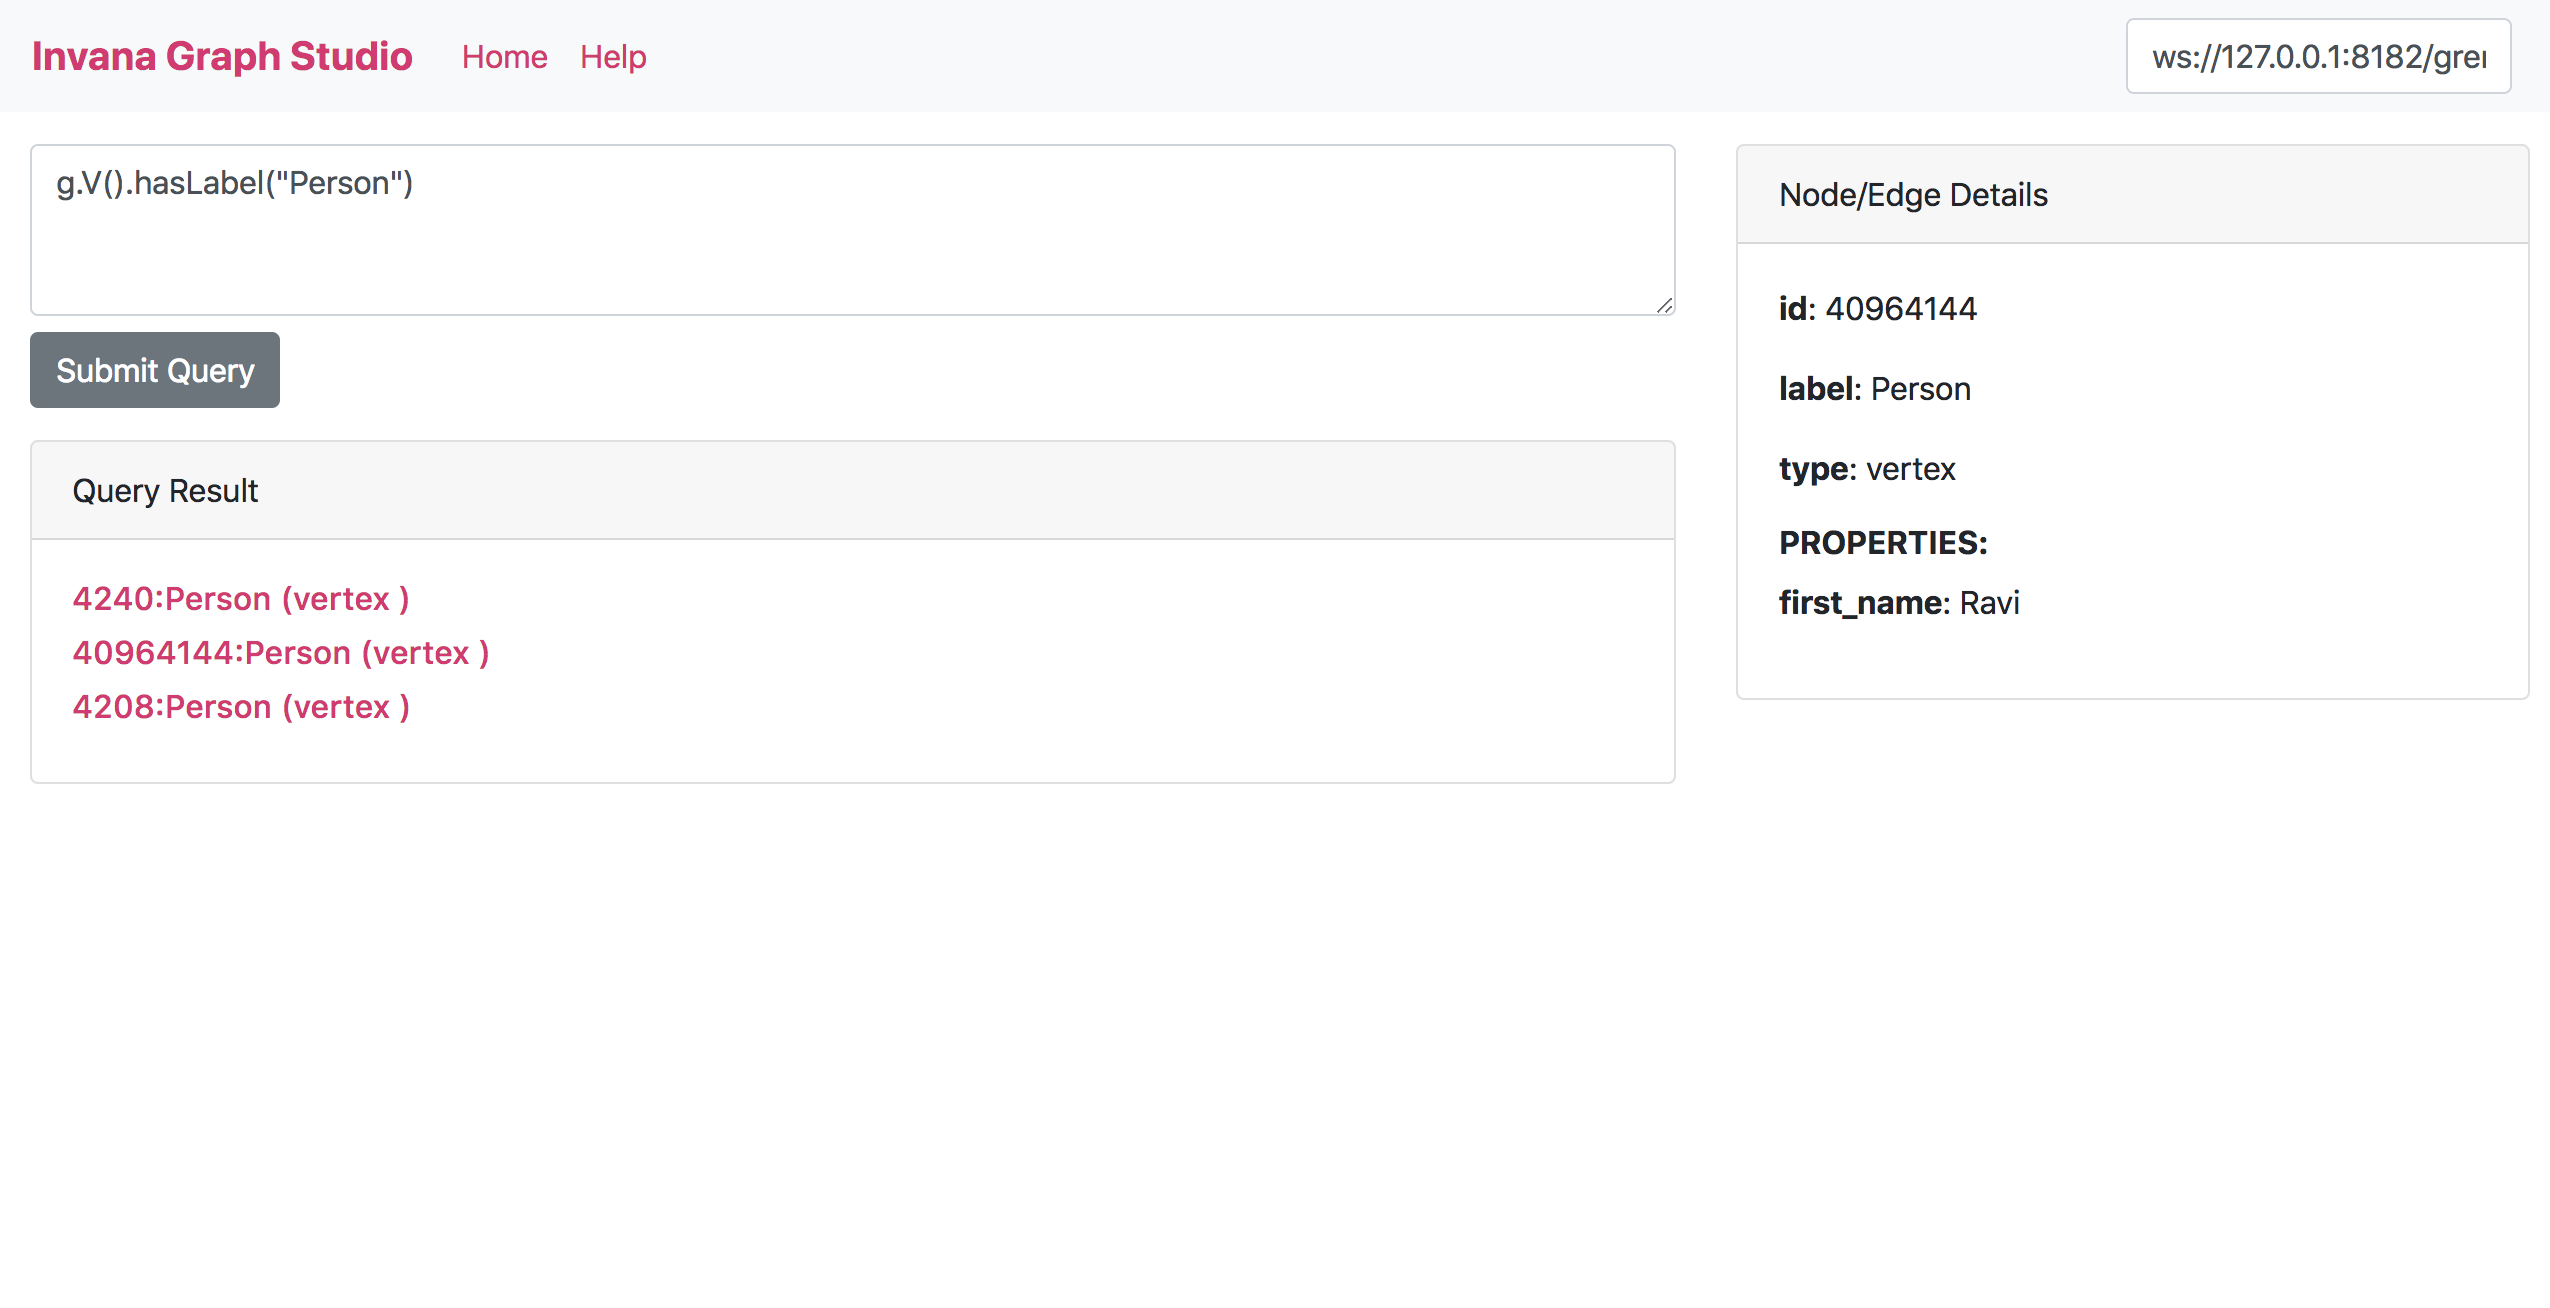
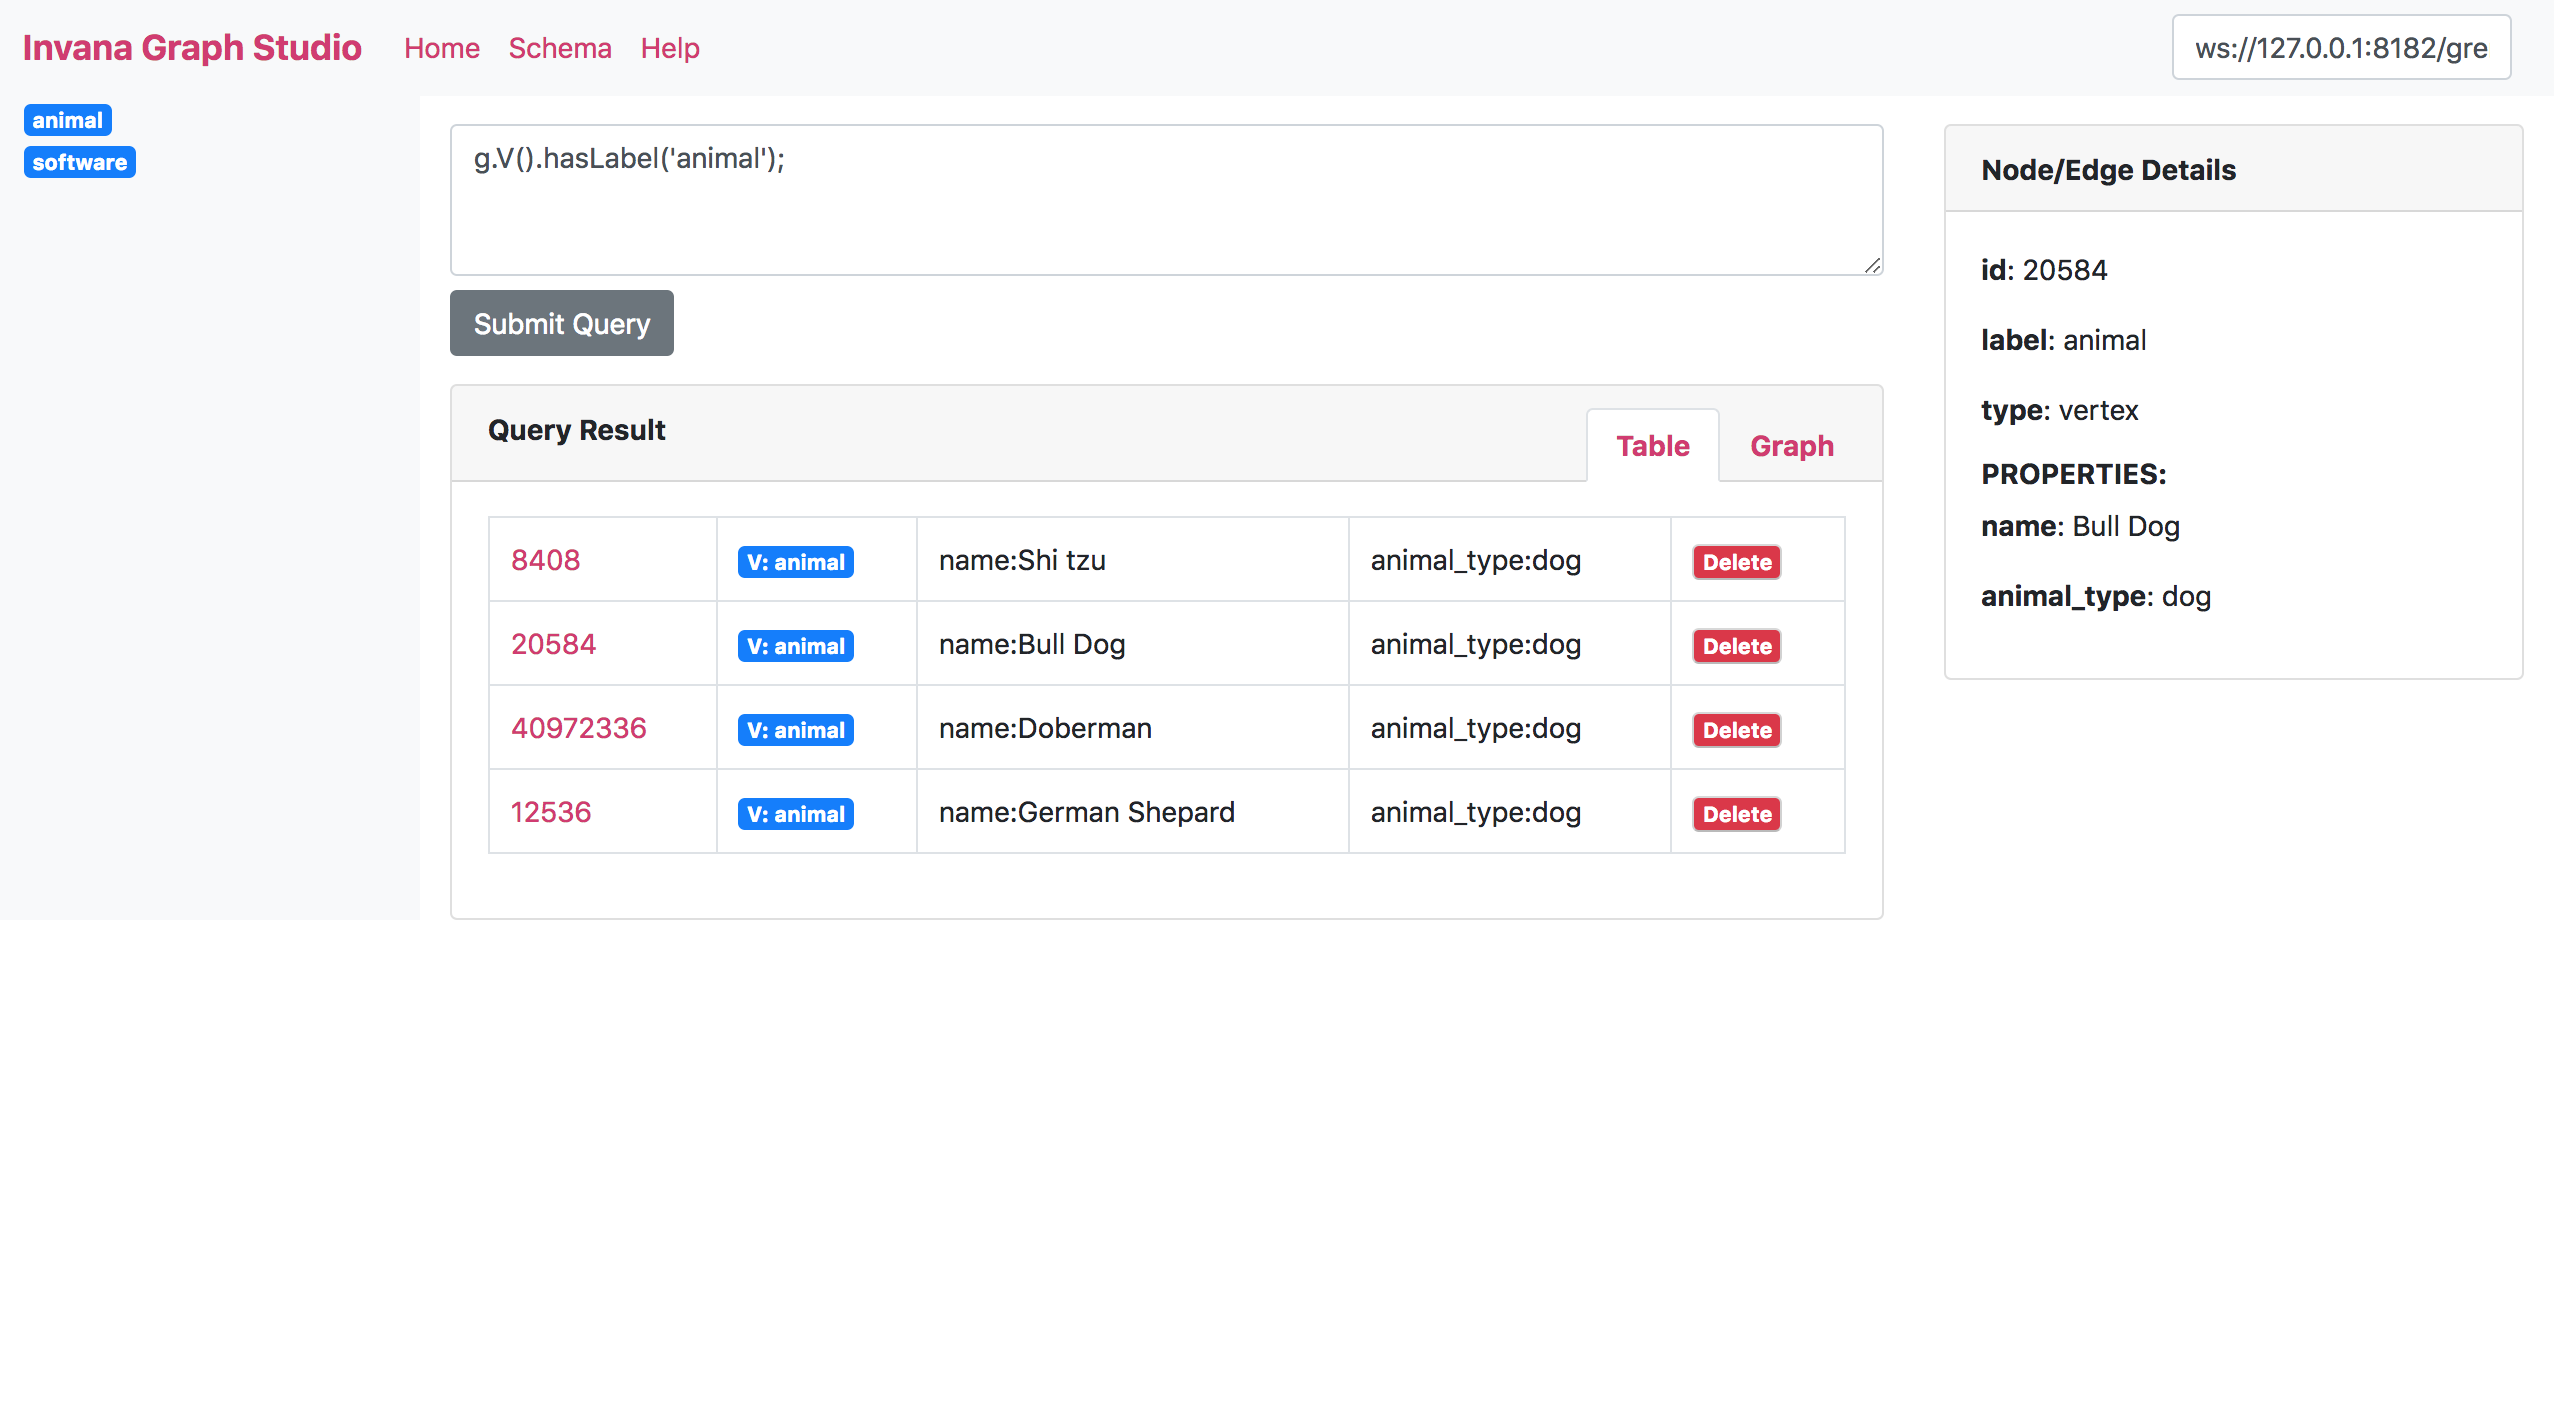
UI implements, deleting single vertex added

diff --git a/assets/templates/main.html b/assets/templates/main.html
@@ -1,27 +1,110 @@
 <div class="container-fluid" ng-controller="dslCtrl">
     <div class="row">
-        <div class="col-md-8 mt-3">
-            <textarea name="" ng-model="query_string" class="form-control" id="" cols="30" rows="3"></textarea>
+        <nav class="col-md-2 d-none d-md-block bg-light sidebar">
+            <div class="sidebar-sticky">
+                <ul class="nav flex-column">
+
+
+                    <li ng-repeat="vertex_class in vertex_list">
+                        <a class="nav-link badge badge-primary" ng-click="show_vertex_data(vertex_class)"
+                           style="color:white !important;">
+                            {{vertex_class}}</a>
+                    </li>
+                </ul>
+
+            </div>
+        </nav>
+        <div class="col-md-7 mt-3">
+            <textarea name="" ng-bind="query_string" class="form-control" id="" cols="30" rows="3"></textarea>
             <button class="btn btn-secondary mt-2" ng-click="run_query()">Submit Query</button>
             <!--<p class="small">Type and press Enter</p>-->
 
             <div class="card mt-3" ng-if="query_result">
                 <div class="card-header">
-                    Query Result
-                </div>
-                <div class="card-body">
+                    <div class="row">
+                        <div class="col-md-6">
+                            Query Result
 
-                    <div class="" ng-repeat="node in query_result">
-                        <h6>
-                            <a ng-click="show_node($index)">{{node.id}}:{{node.label}} ({{node.type}} )</a>
-                        </h6>
-
-
+                        </div>
+                        <div class="col-md-6">
+                            <ul class="nav nav-tabs card-header-tabs float-right nav-result">
+                                <!--<li class="nav-item">-->
+                                <!--<a class="nav-link active" id="show-pretty" href="javascript:void();"-->
+                                <!--ng-click="show_pretty()">Pretty</a>-->
+                                <!--</li>-->
+                                <li class="nav-item">
+                                    <a class="nav-link active" id="show-table" href="javascript:void();"
+                                       ng-click="show_table();">Table</a>
+                                </li>
+                                <li class="nav-item">
+                                    <a class="nav-link" id="show-graph" href="javascript:void();"
+                                       ng-click="show_graph();">Graph</a>
+                                </li>
+                            </ul>
+                        </div>
                     </div>
 
-                    <pre>
-                        {{query_result}}
-                    </pre>
+
+                </div>
+                <div class="card-body">
+                    <!--<div class="" ng-if="query_result && shall_show_pretty">-->
+
+
+                    <!--<div class="" ng-repeat="node in query_result">-->
+                    <!--<h6>-->
+                    <!--<a ng-click="show_node($index)" style="color: #666 !important;">-->
+                    <!--<span class="badge badge-primary" title="{{node.id}}">-->
+                    <!--<span ng-if="node.type == 'vertex'">V:</span>-->
+                    <!--<span ng-if="node.type == 'edge'">E:</span>{{node.label}}-->
+                    <!--</span>-->
+                    <!--{{node.properties.name[0].value || name.properties.title[0].value}}-->
+                    <!--</a>-->
+                    <!--</h6>-->
+                    <!--</div>-->
+
+                    <!--<hr>-->
+                    <!--<code>-->
+                    <!--<h3>JSON Data</h3>-->
+                    <!--{{query_result}}-->
+                    <!--</code>-->
+                    <!--</div>-->
+
+                    <div class="" ng-if="query_result && shall_show_table">
+
+
+                        <table class="table table-bordered">
+                            <!--<thead>-->
+                            <!--<tr>-->
+                            <!--<th>id</th>-->
+                            <!--<th>Node</th>-->
+                            <!--<th>Operations</th>-->
+                            <!--<th ng-repeat="prop in "></th>-->
+                            <!--</tr>-->
+                            <!--</thead>-->
+                            <tbody>
+                            <tr ng-repeat="node in query_result" id="{{node.type}}-{{node.id}}">
+                                <td><a ng-click="show_node($index)">{{node.id}}</a></td>
+                                <td>  <span class="badge badge-primary" title="{{node.id}}">
+                                    <span ng-if="node.type == 'vertex'">V:</span>
+                                    <span ng-if="node.type == 'edge'">E:</span>{{node.label}}
+                                </span>
+                                </td>
+                                <td ng-repeat="(k, prop) in node.properties">
+                                    {{k}}:{{prop[0].value}}
+                                </td>
+                                <td>
+
+                                    <button type="button" class="badge badge-danger"
+                                            ng-click="delete_current_node(node.type, node.id)">Delete
+                                    </button>
+                                </td>
+                            </tr>
+                            </tbody>
+                        </table>
+                    </div>
+                    <div class="" ng-if="query_result && shall_show_graph">
+                        <p class="text-muted small">Shows data as graph still need to be implemented.</p>
+                    </div>
 
                     <div id="outputArea"></div>
                     <div id="messageArea"></div>
@@ -29,7 +112,7 @@
             </div>
 
         </div>
-        <div class="col-md-4">
+        <div class="col-md-3">
             <div class="card mt-3">
                 <div class="card-header">
                     Node/Edge Details

diff --git a/assets/scripts/dslCtrl.js b/assets/scripts/dslCtrl.js
@@ -11,7 +11,7 @@ app.controller('dslCtrl', function ($scope, $rootScope) {
         });
     }
 
-    function run_websocket_request(gremlin_query, server_url) {
+    function run_websocket_request(gremlin_query, server_url, query_type) {
         $('#messageArea').html('<p class="text-muted">(loading)</p>');
 
         var msg = {
@@ -48,20 +48,26 @@ app.controller('dslCtrl', function ($scope, $rootScope) {
             var response = JSON.parse(event.data);
             var data = response.result.data;
             console.log(data, response);
-            if (data == null) {
+            if (query_type === "query") {
+                if (data == null) {
 
-                $('#outputArea').html(response.status.message);
-                $('#messageArea').html('Server error. No data.');
-                return 1;
+                    $('#outputArea').html(response.status.message);
+                    $('#messageArea').html('Server error. No data.');
+                    return 1;
 
-            } else {
-                $('#messageArea').html('');
-                $('#outputArea').html(data);
-                $scope.query_result = data;
-                console.log("$scope.query_result", $scope.query_result);
+                } else {
+                    $('#messageArea').html('');
+                    $('#outputArea').html(data);
+                    $scope.query_result = data;
+                    console.log("$scope.query_result", $scope.query_result);
 
+                }
             }
-                        $scope.$apply()
+            else if (query_type === "get_vertices") {
+                $scope.vertex_list = data;
+            }
+            $scope.$apply();
+            $scope.show_table();
 
         };
 
@@ -70,7 +76,7 @@ app.controller('dslCtrl', function ($scope, $rootScope) {
 
 
     $scope.run_query = function () {
-        run_websocket_request($scope.query_string, $scope.server_url)
+        run_websocket_request($scope.query_string, $scope.server_url, "query")
 
     };
 
@@ -78,5 +84,63 @@ app.controller('dslCtrl', function ($scope, $rootScope) {
         console.log("show_node", i);
         $scope.current_node = $scope.query_result[i];
     }
+    run_websocket_request("g.V().label().dedup();", $scope.server_url, "get_vertices");
+
+
+    $scope.show_vertex_data = function (vertex_class) {
+        query = "g.V().hasLabel('" + vertex_class + "');"
+        $scope.query_string = query;
+
+        run_websocket_request(query, $scope.server_url, "query");
+    };
+
+    $scope.shall_show_table = true;
+    // $scope.shall_show_pretty = false;
+    $scope.shall_show_graph = false;
+
+    $scope.show_table = function () {
+        $('.nav-result .nav-link').removeClass("active");
+        $('#show-table').addClass("active");
+        // $scope.result_tabulated_data = angular.copy($scope.query_result);
+        $scope.shall_show_table = true;
+        // $scope.shall_show_pretty = false;
+        $scope.shall_show_graph = false;
+
+    };
+
+
+    // $scope.show_pretty = function () {
+    //     console.log("show_pretty");
+    //     $('.nav-result .nav-link').removeClass("active");
+    //     $('#show-pretty').addClass("active");
+    //     $scope.shall_show_table = false;
+    //     $scope.shall_show_pretty = true;
+    //     $scope.shall_show_graph = false;
+    // };
+
+    $scope.show_graph = function () {
+        $('.nav-result .nav-link').removeClass("active")
+        $('#show-graph').addClass("active");
+        $scope.shall_show_table = false;
+        // $scope.shall_show_pretty = false;
+        $scope.shall_show_graph = true;
+
+    };
+
+    $scope.delete_current_node = function (node_type, node_id) {
+        console.log(node_type, node_id);
+        if (node_type === "vertex") {
+            query = "g.V(" + node_id + ").drop()";
+            $scope.query_string = query;
+            run_websocket_request(query, $scope.server_url, "delete_vertex");
+        } else if (node_type === "edge") {
+            query = "g.E(" + node_id + ").drop()";
+            $scope.query_string = query;
+
+            run_websocket_request(query, $scope.server_url, "delete_edge");
+
+        }
+    };
+
 
 });

diff --git a/assets/styles/main.css b/assets/styles/main.css
@@ -2,3 +2,10 @@ a{
     color: #d23971 !important;
     cursor: pointer !important;
 }
+.card-header{
+    font-weight: bold !important;
+
+}
+body, html{
+    font-size: 14px;
+}

diff --git a/docs/sample.md b/docs/sample.md
@@ -8,3 +8,12 @@ gremlin.addEdge('dependsOn',blueprints)
 blueprints.property('created',2010)
 
 ````
+
+
+```
+graph.addVertex(label,'animal','name','Bull Dog', 'animal_type', 'dog')
+graph.addVertex(label,'animal','name','Doberman', 'animal_type', 'dog')
+graph.addVertex(label,'animal','name','Shi tzu', 'animal_type', 'dog')
+graph.addVertex(label,'animal','name','German Shepard', 'animal_type', 'dog')
+
+```
